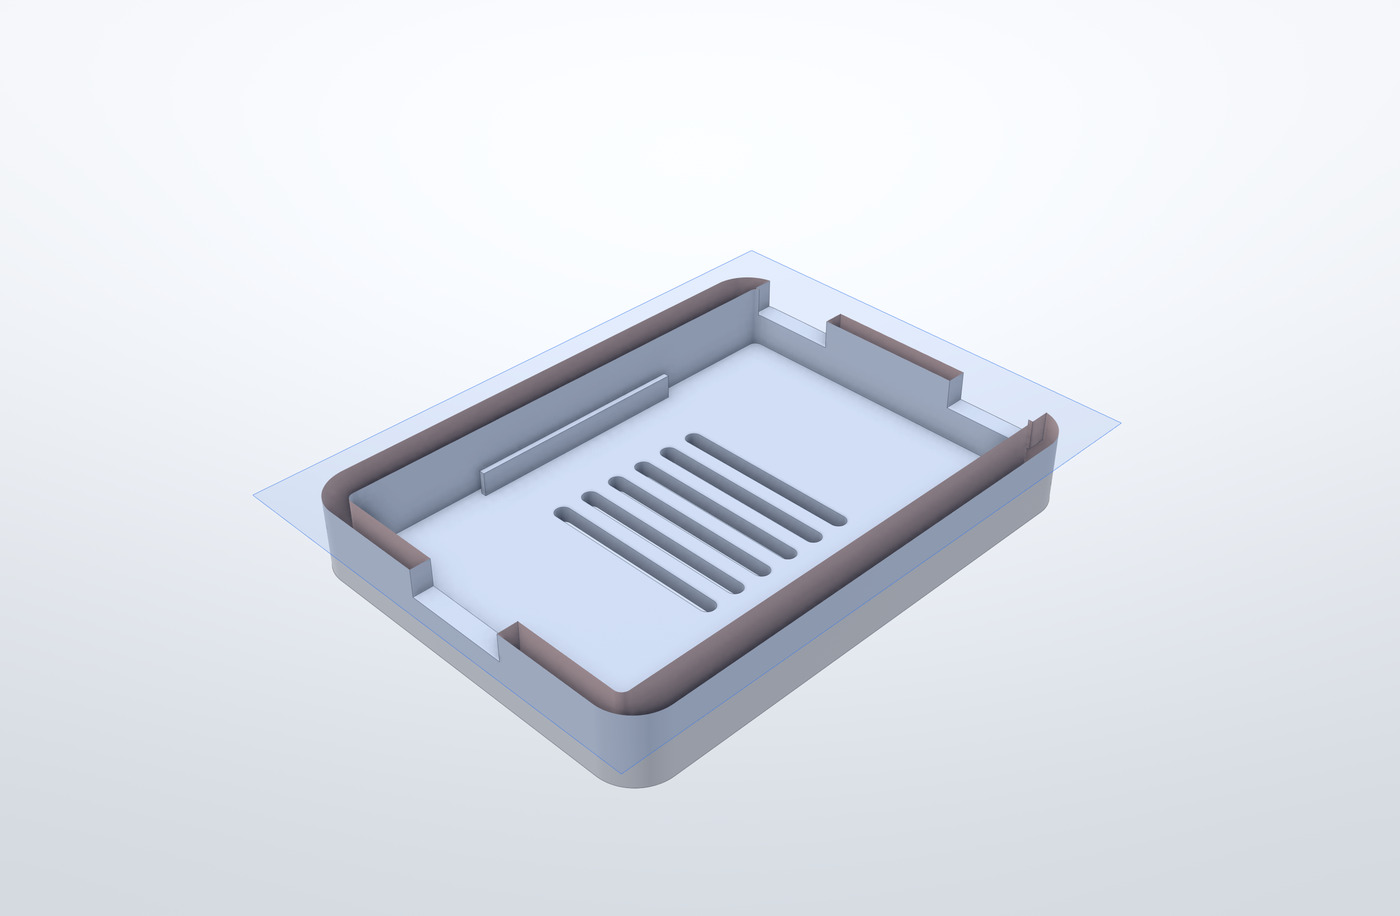
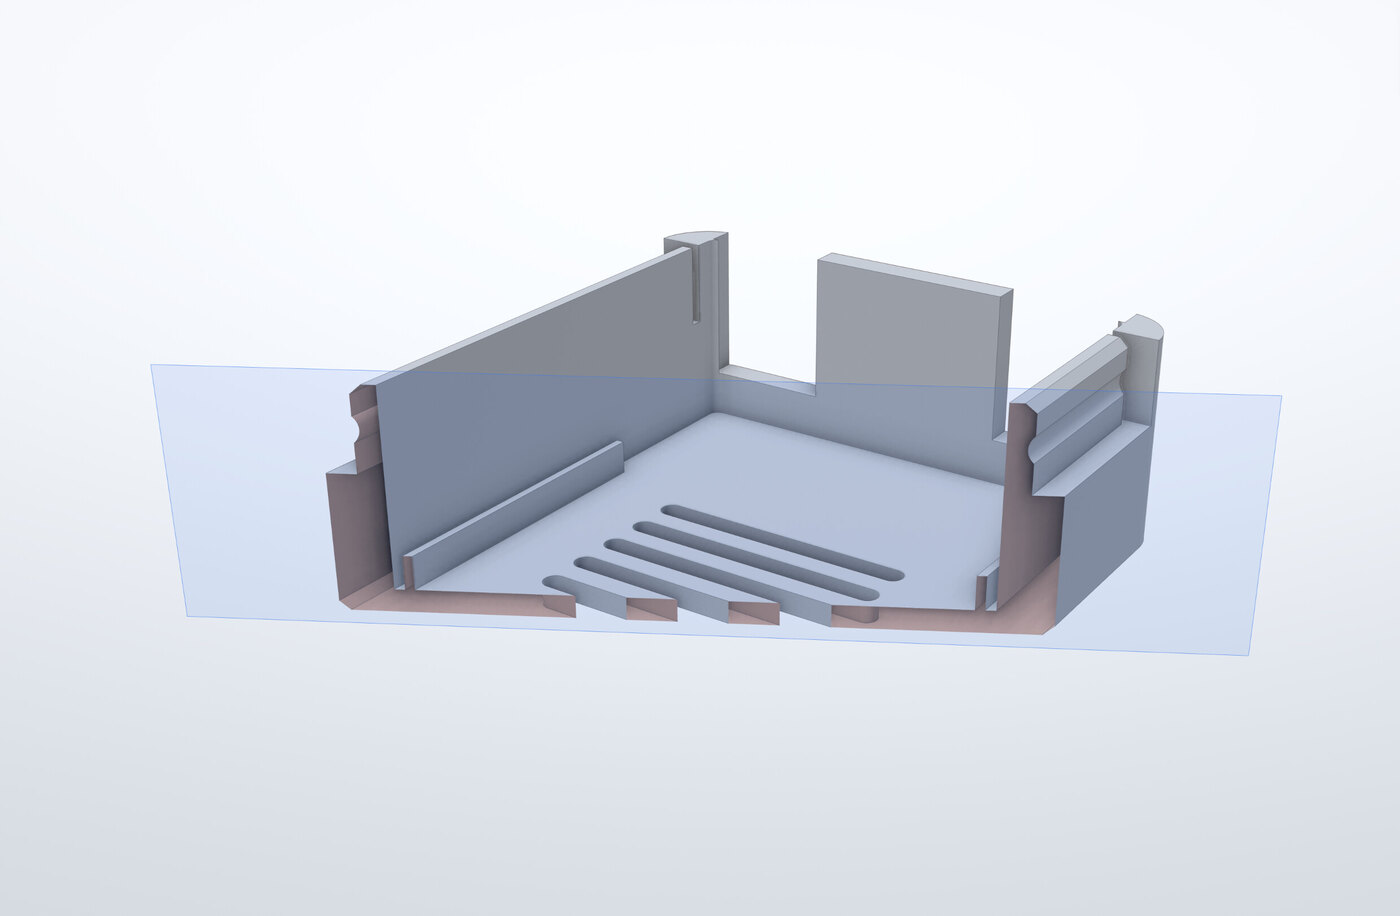
Startseite: neues Schnittbild des 3D-Betrachters (schräge Schnittebene knapp über dem Boden)

Changed region(s): [[0.215, 0.2445, 0.8293, 0.8865]]

diff --git a/README.md b/README.md
@@ -183,7 +183,7 @@ Qualitätsstufe „Hoch“: glatte Rundungen, weiche Umgebungsschatten, Kanten a
 
 <p align="center">
   <img src="docs/bilder/readme/stl-messen.jpg" width="49%" alt="Zwei Flächen angeklickt, dazwischen das Maß 10,00 mm mit Winkel 0°">
-  <img src="docs/bilder/readme/stl-schnitt.jpg" width="49%" alt="Eine waagerechte Schnittebene durch die Mitte des Gehäuses; die Schnittflächen sind warm eingefärbt">
+  <img src="docs/bilder/readme/stl-schnitt.jpg" width="49%" alt="Eine leicht schräge Schnittebene knapp über dem Boden des Gehäuses; die angeschnittenen Wände und Lüftungsschlitze sind warm eingefärbt">
 </p>
 
 - **STL und 3MF ansehen:** bis 20 Millionen Dreiecke; Darstellung als Fläche, Drahtgitter oder Bauplan, Teile einfärben, Perspektive
